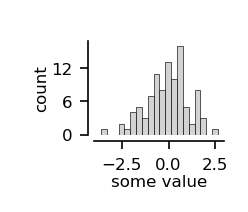
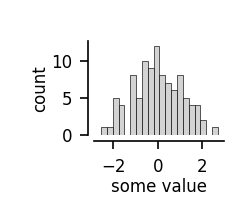
adding log in hist

diff --git a/datavyz/hist_plots.py b/datavyz/hist_plots.py
@@ -18,10 +18,13 @@ def hist(graph,
          color=None,label='',
          lw=0.3, alpha=1.,
          xlabel='', ylabel='count', title='',
-         normed=False,
+         normed=False, log=False,
          fig_args={}, axes_args={}):
     
     hist, be = np.histogram(x, bins=bins, density=normed)
+    if log:
+        hist = np.clip(hist, np.min(hist[hist>0]), hist.max())
+        axes_args['yscale'] = 'log'
 
     if color is not None:
         facecolor = color
@@ -57,7 +60,7 @@ if __name__=='__main__':
 
     from datavyz import ge
 
-    fig, ax = ge.hist(np.random.randn(100), xlabel='some value')
+    fig, ax = ge.hist(np.random.randn(100), xlabel='some value', log=True)
     
-    ge.savefig(fig, 'docs/hist-plot.png')
-
+    # ge.savefig(fig, 'docs/hist-plot.png')
+    ge.show()
